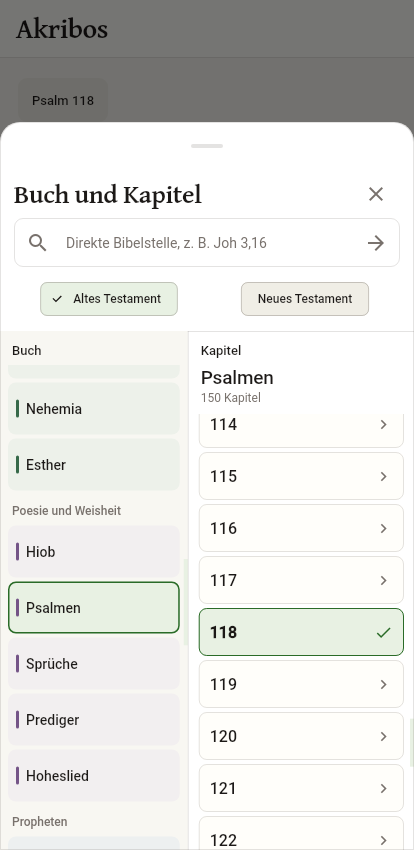
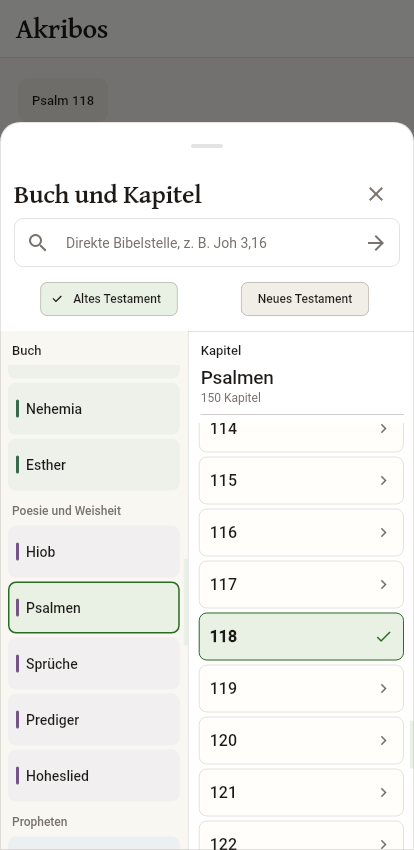
Trenne den Buchkopf von der Kapitelliste

diff --git a/lib/features/reader/passage_picker.dart b/lib/features/reader/passage_picker.dart
@@ -373,6 +373,7 @@ class _PassagePickerState extends State<PassagePicker> {
     final extent = _chapterExtent(context);
     final name = _displayName(book);
     final count = chapters.length;
+    final dividerThickness = tokens.eInk ? 2.0 : 1.0;
     return Column(
       crossAxisAlignment: CrossAxisAlignment.stretch,
       children: [
@@ -385,6 +386,14 @@ class _PassagePickerState extends State<PassagePicker> {
               children: [
                 Text(name, style: theme.textTheme.titleLarge),
                 Text('$count Kapitel', style: theme.textTheme.bodySmall),
+                const SizedBox(height: 8),
+                Divider(
+                  height: dividerThickness,
+                  thickness: dividerThickness,
+                  color: tokens.eInk
+                      ? tokens.line
+                      : tokens.muted.withValues(alpha: .35),
+                ),
               ],
             ),
           ),

diff --git a/test/passage_picker_test.dart b/test/passage_picker_test.dart
@@ -199,6 +199,17 @@ void main() {
     await tester.tap(find.text('Öffnen'));
     await tester.pumpAndSettle();
 
+    final divider = find.descendant(
+      of: find.byKey(const ValueKey('passage-chapters-pane')),
+      matching: find.byType(Divider),
+    );
+    final dividerBounds = tester.getRect(divider);
+    expect(
+      dividerBounds.top,
+      greaterThan(tester.getRect(find.text('150 Kapitel')).bottom),
+    );
+    expect(dividerBounds.bottom, lessThan(tester.getRect(_chapterList).top));
+
     await tester.scrollUntilVisible(
       _chapter(1),
       -650,
@@ -217,6 +228,7 @@ void main() {
       scrollable: _chapterScrollable,
     );
     expect(tester.getCenter(_book(19)).dy, closeTo(openedBookY, .1));
+    expect(tester.getRect(divider), dividerBounds);
     expect(find.byTooltip('Nächste Kapitel'), findsNothing);
     await tester.tap(_chapter(150));
     await tester.pumpAndSettle();

diff --git a/docs/MOBILE-DESIGN.md b/docs/MOBILE-DESIGN.md
@@ -74,7 +74,8 @@ ein Fehler zeigt den bestätigten Teil und lässt die übrigen Stellen ausgewäh
 
 Die Buchliste steht links, die Kapitel des ausgewählten Buchs stehen rechts. Beide
 Listen scrollen vertikal und unabhängig. Rechts sind alle verfügbaren Kapitel in
-einer Liste erreichbar. Beim Öffnen stehen das aktuelle Buch und das aktuelle Kapitel
+einer Liste erreichbar. Eine feine Linie trennt Buchname und Kapitelzahl von der
+scrollbaren Liste. Beim Öffnen stehen das aktuelle Buch und das aktuelle Kapitel
 mittig in ihrem jeweiligen Scrollbereich. Dafür haben die Listen oben und unten
 genug Platz, auch für ihre ersten und letzten Einträge. Beim Scrollen bleibt die
 Auswahl stehen. Ein Buchwechsel aktualisiert die rechte Liste. Das Antippen eines
